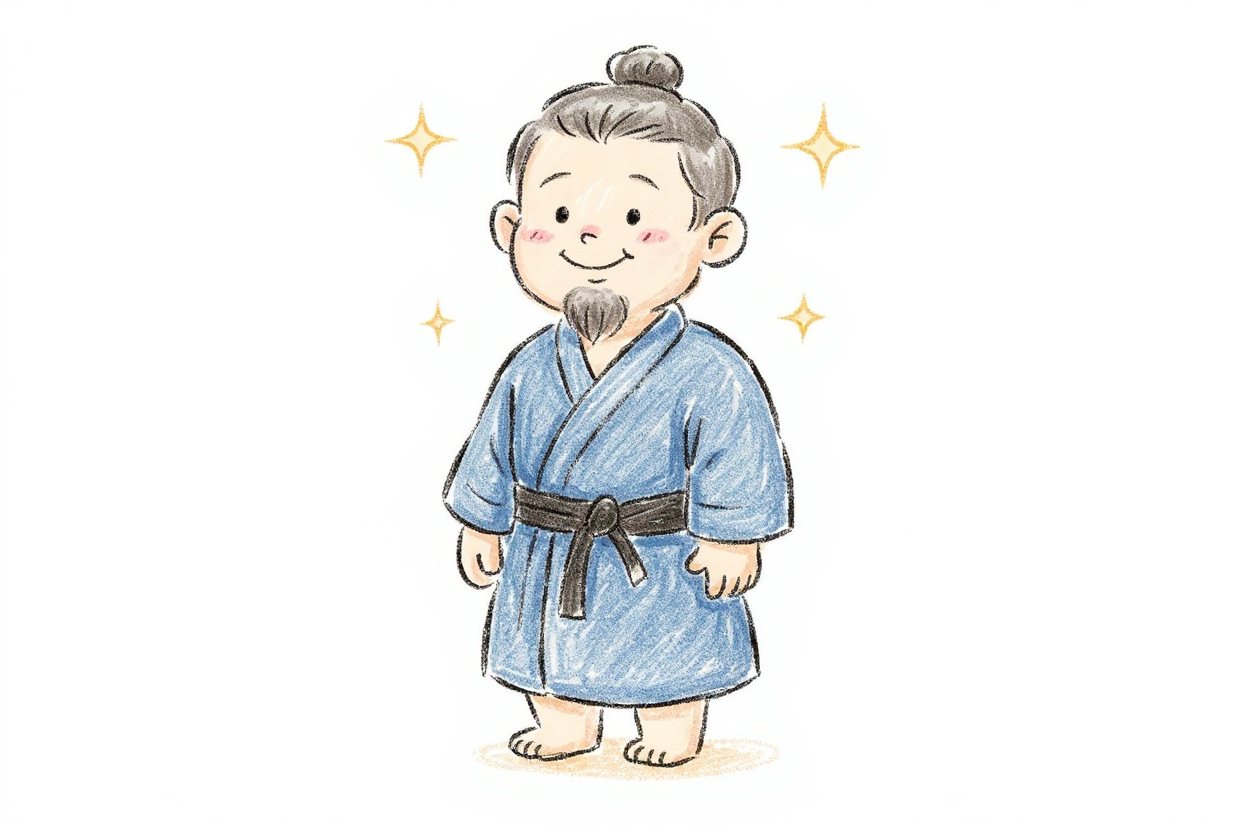
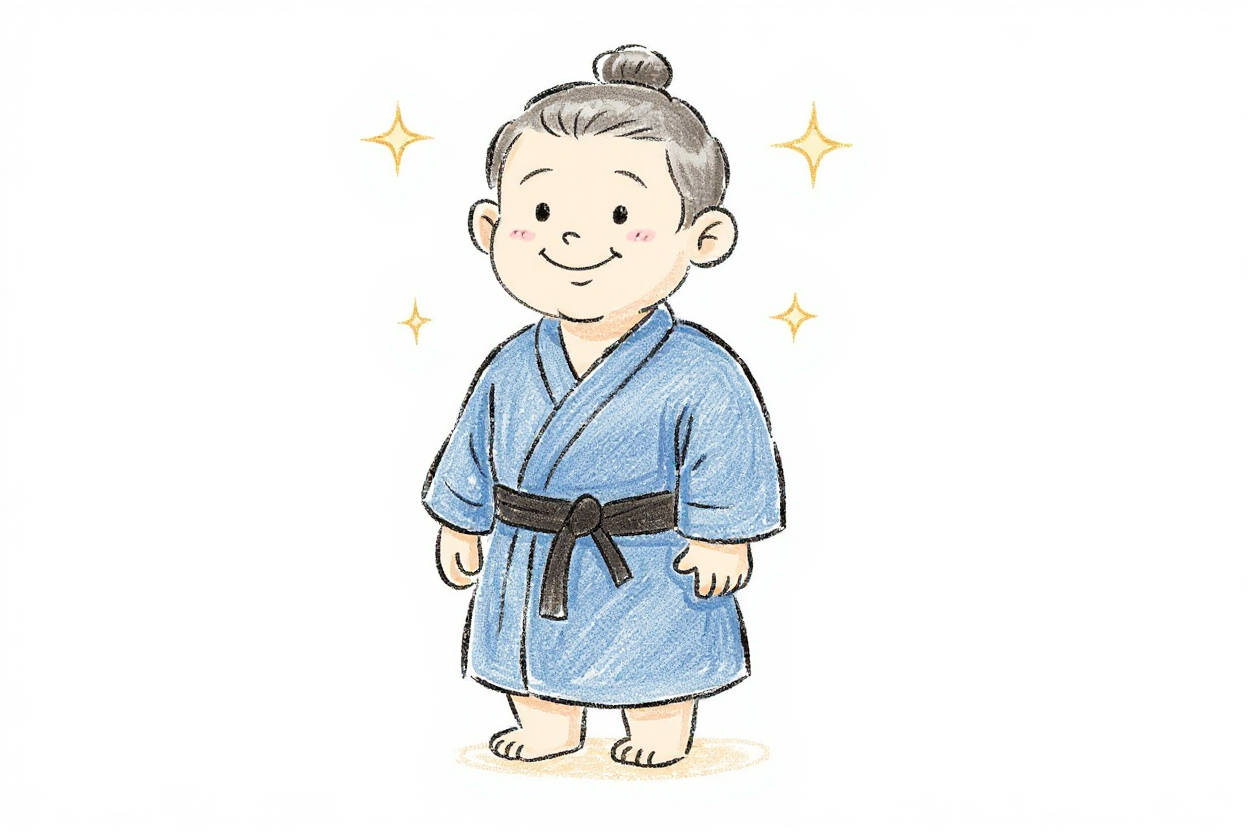
0.2.0 杯弓蛇影2

diff --git a/public/videos/2026/07/07/beigong-sheying/cost/coast.md b/public/videos/2026/07/07/beigong-sheying/cost/coast.md
@@ -27,3 +27,5 @@
 - 2026-07-08 07:42:40 | p04(s3-snake) 测试 | nano-pro | $0.15
 - 2026-07-08 07:46:26 | p01(s1-open) banana修 | nano-pro | $0.15
 - 2026-07-08 07:46:26 | p14(s6-reveal) banana修 | nano-pro | $0.15
+- 2026-07-08 08:16:29 | p10(s5-sick) flux修表情 | flux | $0.04
+- 2026-07-08 08:16:29 | p18(s7-healed) flux去胡子 | flux | $0.04